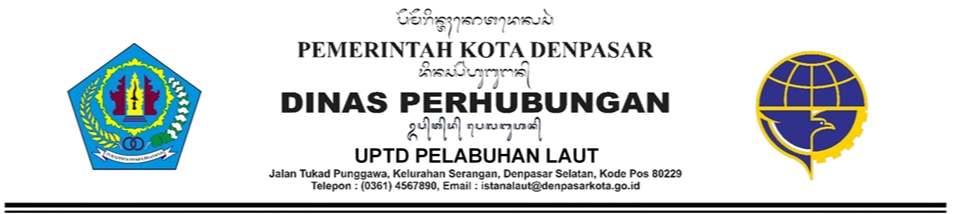
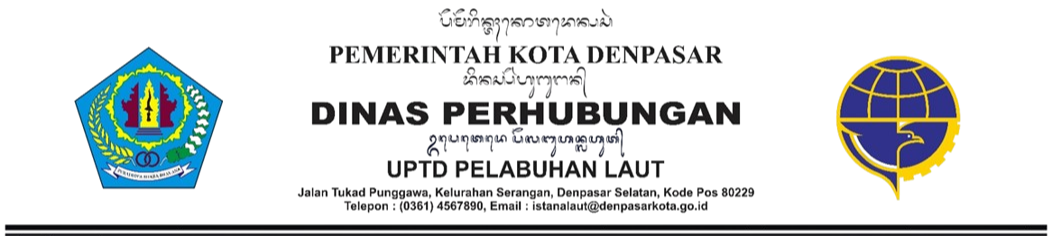
update kop export

diff --git a/resources/views/master/exportDashboard.blade.php b/resources/views/master/exportDashboard.blade.php
@@ -4,13 +4,15 @@
 <script>
     window.print()
 </script>
-<br><br>
+
 <script src="https://cdn.plot.ly/plotly-latest.min.js"></script>
 
 <div class="d-flex justify-content-center align-items-center" >
   <img src="{{ asset('images/kop.png') }}" style="width:1300px" class="img-fluid" alt="Image">
 </div>
-
+<br>
+<h3 class="text-center text-dark">DATA GRAFIK</h3>
+<br>
 <section class="">
 
               <div class="container-fluid">    
@@ -84,15 +86,7 @@
 <br>
 <br>
 <br>
-<br>
-<br>
-<br>
-<br>
-<br>
-<br>
-<br>
-<br>
-<br>
+
              
                 <div class="card">
                   <div class="card-header">
